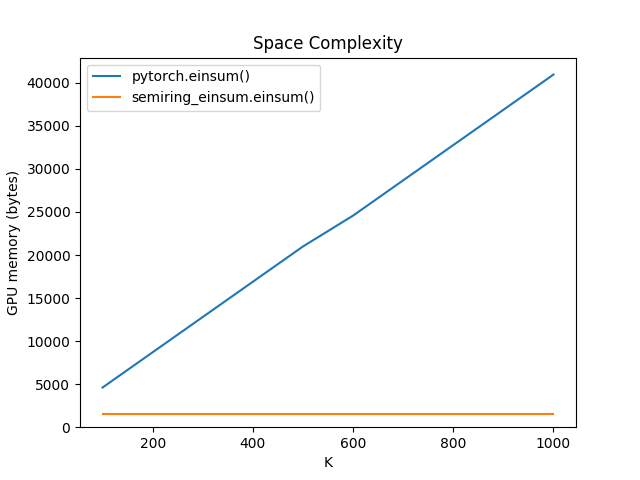
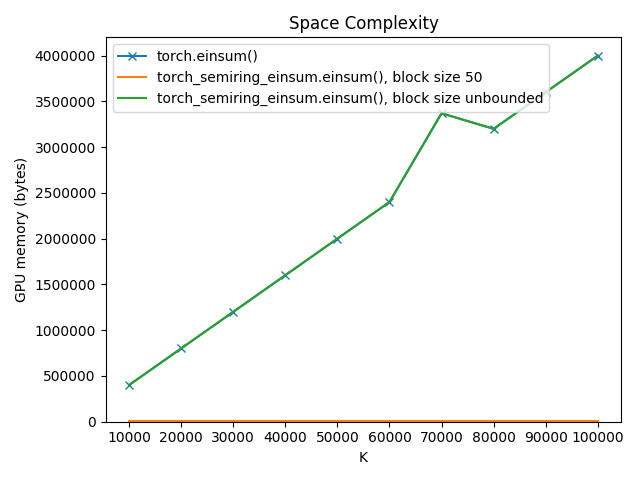
Update documentation with more info about time/space complexity.

diff --git a/tests/measure_cost.py b/tests/measure_cost.py
@@ -9,33 +9,42 @@ from torch_semiring_einsum import compile_equation, einsum
 
 def main():
 
-    parser = argparse.ArgumentParser()
+    parser = argparse.ArgumentParser(
+        description=
+        'Generate data for the time and space complexity plots included in '
+        'the documentation.'
+    )
     parser.add_argument('output', type=pathlib.Path)
+    parser.add_argument('-A', type=int, default=10)
+    parser.add_argument('--steps', type=int, default=10)
+    parser.add_argument('--step-size', type=int, default=10000)
+    parser.add_argument('--block-sizes', type=int, nargs='+', default=[1, 2, 3, 4, 5, 6, 7, 8, 9, 10, 15, 20, 50])
     args = parser.parse_args()
 
     device = torch.device('cuda')
     EQUATION_STR = 'ak,ak,ak->a'
     COMPILED_EQUATION = compile_equation(EQUATION_STR)
-    A = 10
-    N = 10
+
+    block_sizes = args.block_sizes + ['unbounded']
 
     pytorch_results = []
-    this_results = []
-    for i in range(N+1):
-        # Run the first iteration twice to warm up CUDA
+    blocked_results = [ (block_size, []) for block_size in block_sizes ]
+    for i in range(args.steps + 1):
+        # Run the first iteration twice to warm things up
         ignore = (i == 0)
         if ignore:
             i = 1
-        K = i * 100
+        K = i * args.step_size
         if ignore:
             print('warming up')
         else:
             print(f'K = {K}')
-        x1, x2, x3 = [torch.rand((A, K), device=device) for _ in range(3)]
+        x1, x2, x3 = [torch.rand((args.A, K), device=device) for _ in range(3)]
         torch.cuda.synchronize(device)
         base_memory = torch.cuda.memory_allocated(device)
 
         def measure_cost(einsum, equation):
+            torch.cuda.synchronize(device)
             torch.cuda.reset_max_memory_allocated(device)
             start_time = datetime.datetime.now()
             y = einsum(equation, x1, x2, x3)
@@ -44,13 +53,19 @@ def main():
             memory = torch.cuda.max_memory_allocated(device) - base_memory
             return { 'K' : K, 'duration' : duration, 'memory' : memory }
 
-        pytorch_result = measure_cost(torch.einsum, EQUATION_STR)
-        this_result = measure_cost(einsum, COMPILED_EQUATION)
+        result = measure_cost(torch.einsum, EQUATION_STR)
         if not ignore:
-            pytorch_results.append(pytorch_result)
-            this_results.append(this_result)
+            pytorch_results.append(result)
+        for block_size, results in blocked_results:
+            print(f'  block size = {block_size}')
+            if block_size == 'unbounded':
+                # Just use a big number.
+                block_size = 9999999999999999
+            result = measure_cost(lambda *args: einsum(*args, block_size=block_size), COMPILED_EQUATION)
+            if not ignore:
+                results.append(result)
     with args.output.open('w') as fout:
-        json.dump({ 'pytorch' : pytorch_results, 'this' : this_results }, fout)
+        json.dump({ 'pytorch' : pytorch_results, 'blocked' : blocked_results }, fout)
 
 if __name__ == '__main__':
     main()

diff --git a/tests/plot_cost.py b/tests/plot_cost.py
@@ -3,17 +3,20 @@ import json
 import pathlib
 
 import matplotlib.pyplot as plt
+from matplotlib.ticker import MaxNLocator
 import numpy
+
+def force_integer_ticks(ax):
+    ax.xaxis.set_major_locator(MaxNLocator(integer=True, steps=[1, 2, 5]))
 
 def parse_type(s):
     if s not in ('space', 'time'):
         raise ValueError
     return s
 
-def read_data(data, impl, key):
-    impl_data = data[impl]
-    x = numpy.array([p['K'] for p in impl_data])
-    y = numpy.array([p[key] for p in impl_data])
+def read_data(data, key):
+    x = numpy.array([p['K'] for p in data])
+    y = numpy.array([p[key] for p in data])
     return x, y
 
 def main():
@@ -22,13 +25,16 @@ def main():
     parser.add_argument('input', type=pathlib.Path)
     parser.add_argument('output', type=pathlib.Path)
     parser.add_argument('--type', required=True, type=parse_type)
+    parser.add_argument('--block-sizes', type=int, nargs='+', default=[])
+    parser.add_argument('--no-pytorch', action='store_true', default=False)
+    parser.add_argument('--no-unbounded', action='store_true', default=False)
     args = parser.parse_args()
+
+    block_sizes = set(args.block_sizes)
 
     with args.input.open() as fin:
         data = json.load(fin)
     key = 'memory' if args.type == 'space' else 'duration'
-    pytorch_x, pytorch_y = read_data(data, 'pytorch', key)
-    this_x, this_y = read_data(data, 'this', key)
 
     fig, ax = plt.subplots()
     ax.set_title(f'{args.type.capitalize()} Complexity')
@@ -36,11 +42,21 @@ def main():
     ylabel = 'GPU memory (bytes)' if args.type == 'space' else 'Time (s)'
     ax.set_ylabel(ylabel)
 
-    ax.plot(pytorch_x, pytorch_y, label='torch.einsum()')
-    ax.plot(this_x, this_y, label='torch_semiring_einsum.einsum()')
-    ax.set_ylim(bottom=0)
+    if not args.no_pytorch:
+        x, y = read_data(data['pytorch'], key)
+        ax.plot(x, y, label='torch.einsum()', marker='x')
+    for block_size, results in data['blocked']:
+        if (
+            block_size in block_sizes or
+            (not args.no_unbounded and block_size == 'unbounded')
+        ):
+            x, y = read_data(results, key)
+            ax.plot(x, y, label=f'torch_semiring_einsum.einsum(), block size {block_size}')
 
+    ax.set_ylim(bottom=0)
+    force_integer_ticks(ax)
     ax.legend()
+    plt.tight_layout()
     plt.savefig(args.output)
 
 if __name__ == '__main__':

diff --git a/docs/index.rst b/docs/index.rst
@@ -8,9 +8,13 @@ This is a
 re-implementation of
 `einsum <https://pytorch.org/docs/master/generated/torch.einsum.html>`_
 that supports multiple
-`semirings <https://en.wikipedia.org/wiki/Semiring>`_
-in addition to the usual real semiring, including the log and Viterbi
-semirings. It can be extended to support additional semirings.
+`semirings <https://en.wikipedia.org/wiki/Semiring>`_.
+It includes implementations for the real, log, and Viterbi semirings out of
+the box and can be extended to support additional semirings. It can also offer
+better performance than the built-in :py:func:`torch.einsum` function and
+makes the memory-execution time tradeoff configurable, allowing you to run
+large einsum operations that might otherwise be impossible given standard
+hardware constraints.
 
 This einsum implementation was specifically designed to be memory-efficient.
 Whereas a naive implementation of einsum could easily consume huge amounts of
@@ -35,28 +39,47 @@ being summed over.
 Installation
 ------------
 
+You can install ``torch_semiring_einsum`` from PyPI using ``pip``:
+
 .. code-block:: sh
 
    pip install torch_semiring_einsum
 
-Or to install directly from GitHub:
+or a package manager like `Poetry <https://python-poetry.org/>`_:
+
+.. code-block:: sh
+
+   poetry add torch_semiring_einsum
+
+You can also install it directly from GitHub:
 
 .. code-block:: sh
 
    pip install git+git://github.com/bdusell/semiring-einsum.git
 
+.. code-block:: sh
+
+   poetry add git+https://github.com/bdusell/semiring-einsum@master
+
 Basic Usage
 -----------
+
+Here is a quick example that implements batched matrix multiplication in log
+space:
 
 .. code-block:: python
 
    import torch_semiring_einsum
 
-   EQUATION = torch_semiring_einsum.compile_equation('ik,kj->ij')
-
-   A = torch.log(torch.rand(3, 5))
-   B = torch.log(torch.rand(5, 7))
-   C = torch_semiring_einsum.logspace_einsum(EQUATION, A, B)
+   # Pre-compile an einsum equation.
+   EQUATION = torch_semiring_einsum.compile_equation('bik,bkj->bij')
+   # Create some parameters to multiply.
+   A = torch.log(torch.rand(10, 3, 5, requires_grad=True))
+   B = torch.log(torch.rand(10, 5, 7, requires_grad=True))
+   # Run einsum.
+   C = torch_semiring_einsum.log_einsum(EQUATION, A, B)
+   # Now C is differentiable.
+   C.sum().backward()
 
 Note that unlike in NumPy or PyTorch, equations are pre-compiled using
 :py:func:`~torch_semiring_einsum.compile_equation` rather than re-parsed from
@@ -122,27 +145,64 @@ Einsum Syntax
 This package supports the same einsum equation syntax as
 :py:func:`torch.einsum`, except it does not support ellipses (``...``) syntax.
 
-Space Complexity
-----------------
+Time and Space Complexity
+-------------------------
 
 Consider the einsum equation ``'ak,ak,ak->a'``, where :math:`A` is the size of
 the ``a`` dimension and :math:`K` is the size of the ``k`` dimension.
-Implementations of einsum in NumPy and PyTorch contract two tensors at a time,
-which means that they must create an intermediate tensor of size
-:math:`A \times K`. There is even a routine in NumPy,
+Implementations of einsum in NumPy and PyTorch would compute this by
+contracting two tensors at a time, performing two separate tensor
+multiplications. This means that they must create an intermediate tensor of
+size :math:`A \times K`. There is even a routine in NumPy,
 :py:func:`numpy.einsum_path`, which figures out the best contraction order.
 However, it should, in principle, be possible to avoid this by summing over
 all tensors at the same time. This is exactly what ``torch_semiring_einsum`` does,
 and as a result the amount of scratch space the forward pass of einsum requires
 remains fixed as a function of :math:`K`:
 
-TODO Talk about block size.
+In addition to performing the summations in the forward and backward passes
+in-place, this package implements another important innovation: performing
+summations in *blocks* of *fixed size*. Crucially, this allows you to strike a
+*balance* between time and memory usage, allowing you to perform einsum
+operations that might otherwise be impossible given typical time and GPU memory
+constraints.
+
+The fixed-block method is a compromise between two extremes: (a) performing the
+summation in-place by iterating over every value of ``k`` one-by-one, and (b)
+performing the summation entirely out-of-place by creating an intermediate
+tensor with a new ``k`` dimension of size :math:`K`, then summing over ``k`` in
+one GPU kernel call. Method (a) is unbearably slow, and method (b) can use
+exorbitant amounts of memory that make it impossible to use. The fixed-block
+method is like method (a), except that it iterates over fixed-size *ranges* of
+``k``. This increases the parallelism and memory requirements of the summation
+calculation and decreases the number of GPU kernels launched. Smaller blocks
+make einsum behave more like (a), and larger blocks make it behave more like
+(b). But in all cases, the fixed block size ensures that the memory
+requirements never scale with :math:`K`, so the space complexity for our
+example would remain :math:`O(A)` instead of :math:`O(AK)`.
+
+These plots show how the space and time complexity of ``einsum('ak,ak,ak->a')``
+(using the real semiring) varies with block size and :math:`K`, the size of
+dimension ``k``:
+
+.. image:: time-complexity.png
+
+.. image:: time-complexity-2.png
+
+As we can see, execution time gets dramatically better even with small
+increases in block size. The built-in :py:func:`torch.einsum` function is still
+much faster than the blocked versions, but when the block size is unbounded
+and the summation is fully parallel, it is even faster.
 
 .. image:: space-complexity.png
 
-It does, however, come at a cost in time:
+.. image:: space-complexity-2.png
 
-.. image:: time-complexity.png
+For our example, the built-in einsum implementation uses the same amount of
+memory as the fully out-of-place einsum (this is true for this specific
+equation, but it does not generally hold true for all equations). Crucially,
+the blocked einsum implementation has constant, rather than linear, space
+complexity, opening up a new world of possible einsum operations.
 
 Indexes
 -------
